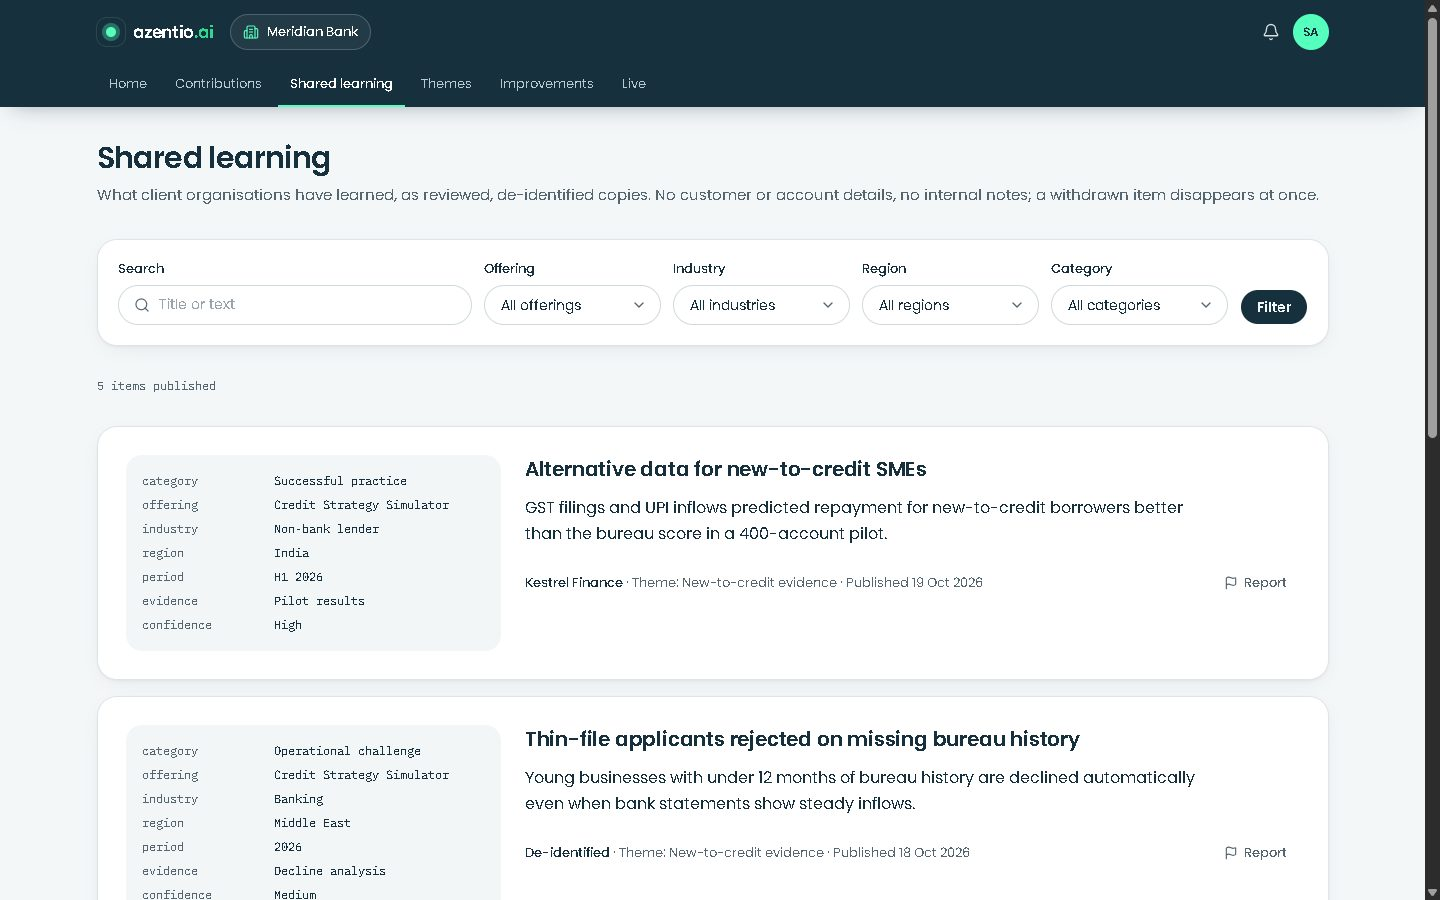
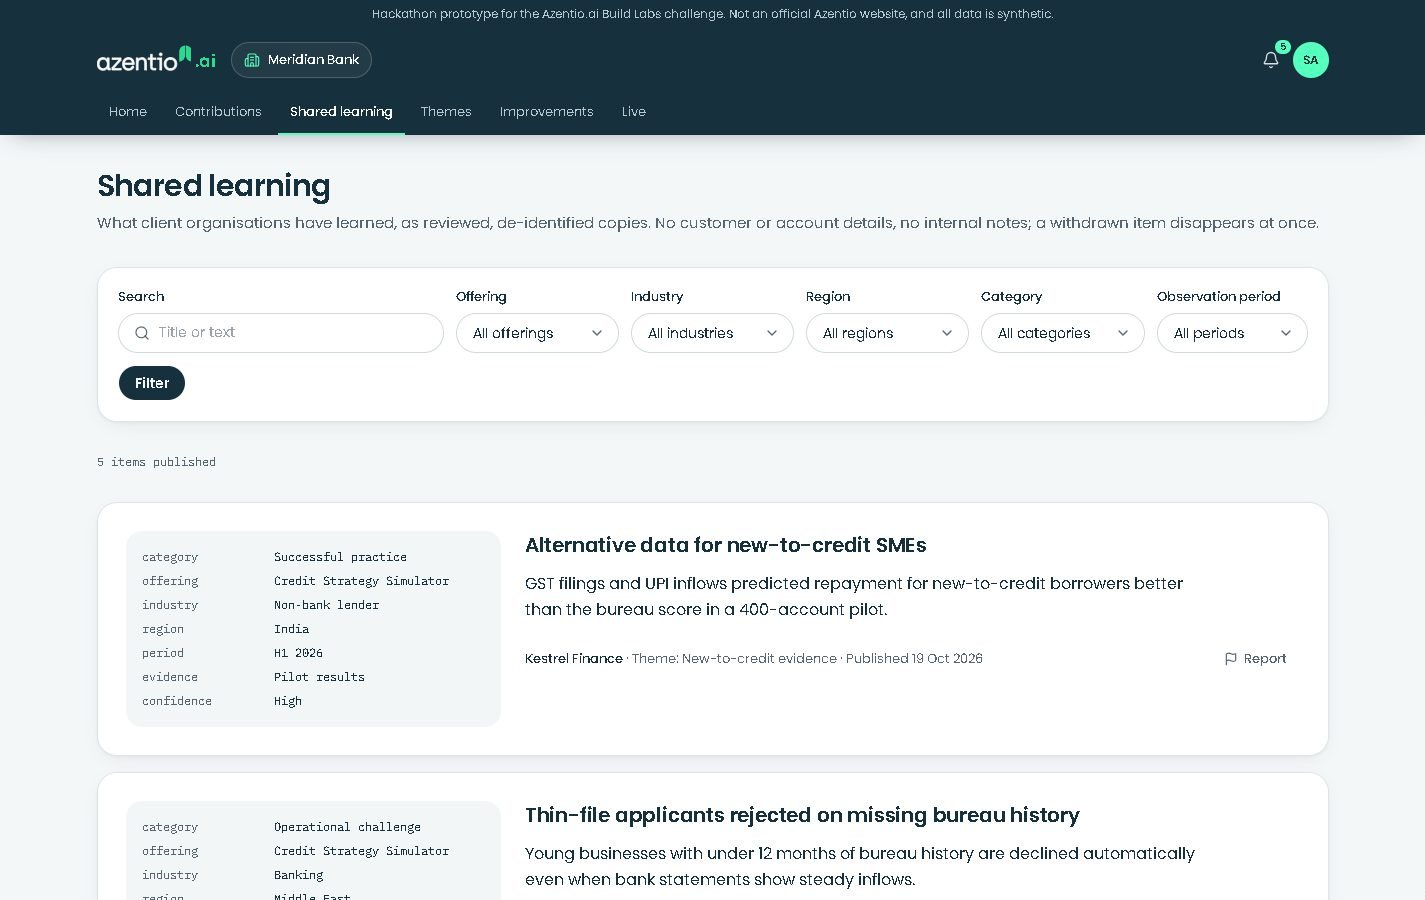
docs(readme): fresh screenshots of the final UI and the How it works diagrams
All five README screenshots retaken from the live site at 1440px after the UI work
and #57: home, Sara's workspace, shared learning (with the period filter), the
moderation review and themes with the live AIRA summary. The header adds the How it
works flow (one note in eight steps) under the home screenshot, linked to the page;
the Personas section adds the two-sides image and, folded, the access matrix. The
test badge now says 38, matching README, SECURITY.md and the architecture page.

diff --git a/README.md b/README.md
@@ -12,15 +12,19 @@ shared learning that improves Azentio's products.**
 [![React 19](https://img.shields.io/badge/React-19-149eca?style=flat-square&logo=react&logoColor=white)](https://react.dev)
 [![TypeScript strict](https://img.shields.io/badge/TypeScript-strict-3178c6?style=flat-square&logo=typescript&logoColor=white)](tsconfig.json)
 [![Postgres](https://img.shields.io/badge/Postgres-Supabase_·_PGlite-336791?style=flat-square&logo=postgresql&logoColor=white)](docs/adr/0002-postgres-everywhere-with-rls-lockdown.md)
-[![API security tests](https://img.shields.io/badge/API_security_tests-30_passing-2ed88e?style=flat-square)](tests/security.test.mjs)
+[![API security tests](https://img.shields.io/badge/API_security_tests-38_passing-2ed88e?style=flat-square)](tests/security.test.mjs)
 
-[**Live demo**](https://azentio-platform.vercel.app) · [Security model](SECURITY.md) ·
+[**Live demo**](https://azentio-platform.vercel.app) · [How it works](https://azentio-platform.vercel.app/how-it-works) · [Security model](SECURITY.md) ·
 [Requirements traceability](docs/requirements-traceability.md) · [Architecture](docs/architecture.md) ·
 [Decision records](docs/adr/README.md)
 
 <br>
 
 <img src="docs/screenshots/home.jpg" alt="The azentio.ai public site" width="860">
+
+<br><br>
+
+<a href="https://azentio-platform.vercel.app/how-it-works"><img src="docs/screenshots/how-it-works-flow.jpg" alt="How it works: one note, from a private thought to a better product, in eight steps" width="860"></a>
 
 </div>
 
@@ -88,7 +92,18 @@ is in [docs/demo-script.md](docs/demo-script.md).
 ## Personas
 
 All accounts and data are synthetic. In demo mode the one-time sign-in code appears on screen, because no email
-provider is connected.
+provider is connected. The [How it works](https://azentio-platform.vercel.app/how-it-works) page shows each role and
+exactly what the server lets it do:
+
+<p align="center">
+  <img src="docs/screenshots/how-it-works-roles.jpg" alt="The two sides: four bank personas and five Azentio roles, with what each can and can't do" width="860">
+</p>
+
+<details>
+<summary><b>Who can do what</b>: 16 features against the nine personas, as enforced by <code>server/policy.ts</code></summary>
+<br>
+<img src="docs/screenshots/how-it-works-matrix.jpg" alt="Access matrix: features against personas" width="860">
+</details>
 
 | Persona | Email | Can |
 |---|---|---|
